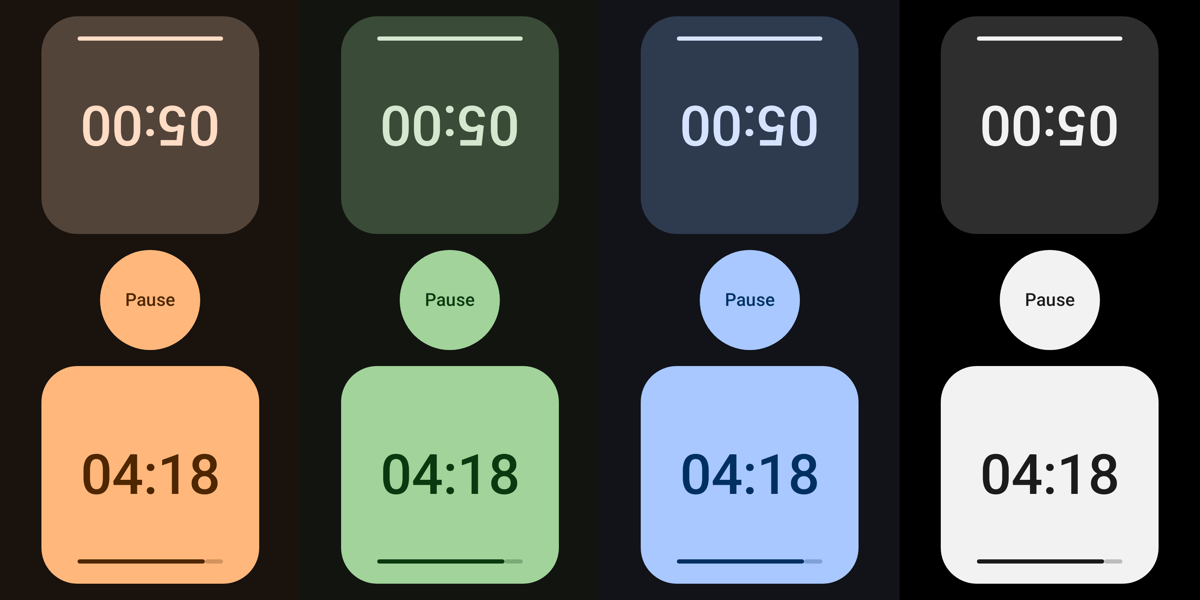
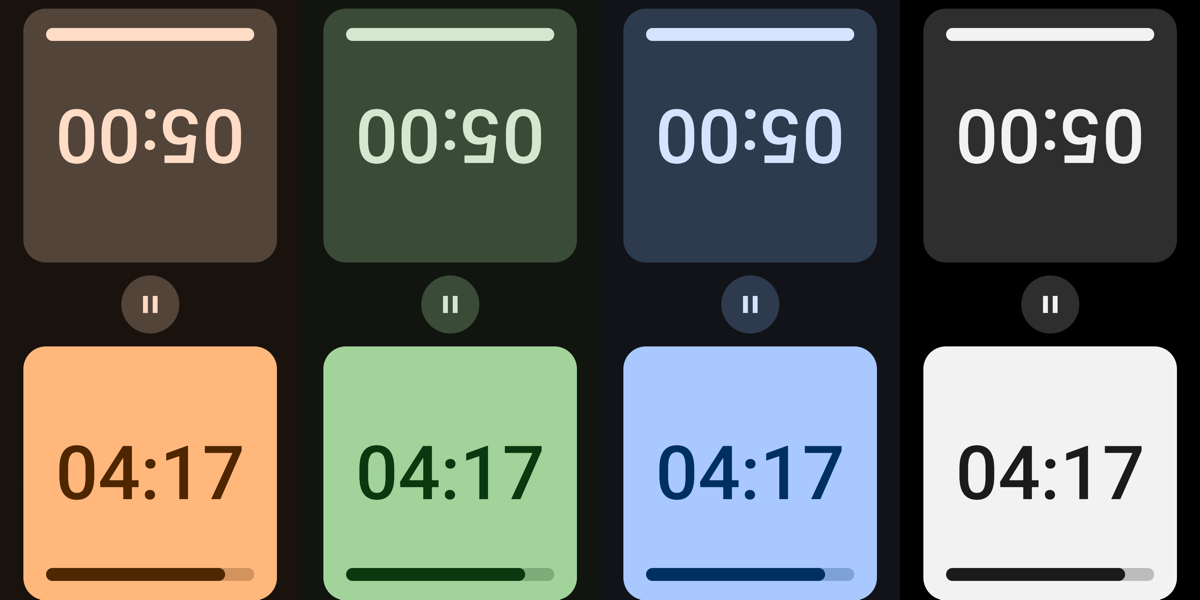
Refresh every screenshot for the symbols, tonal button and thick bars
The clock screenshots now show the settings button beside the move
counter, as it stays during play, and the palette strips show the
panels' bar as thick as the rings.

diff --git a/README.md b/README.md
@@ -3,8 +3,8 @@
 A two-player chess clock for Android and iPhone. Touch your half of the screen to end your turn and start your opponent's clock.
 
 <p>
-  <img src="docs/screenshots/rings.png" width="216" alt="Clock screen mid-game with ring faces, the top time turned toward the player opposite and 12 moves played">
-  <img src="docs/screenshots/panels-dark.png" width="216" alt="Clock screen with full-color panel faces in the dark theme">
+  <img src="docs/screenshots/rings.png" width="216" alt="Clock screen mid-game with ring faces, the top time turned toward the player opposite, the move counter and the settings button in the corners">
+  <img src="docs/screenshots/panels-dark.png" width="216" alt="Clock screen mid-game with full-color panel faces in the dark theme, each with a bar as thick as the rings">
   <img src="docs/screenshots/settings.png" width="216" alt="Settings with time-control presets, the time slider, different times per player and a second period after 40 moves">
 </p>
 
@@ -12,9 +12,9 @@ A two-player chess clock for Android and iPhone. Touch your half of the screen t
 
 The idea is a minimal, clean clock that stays out of the way of the game:
 
-- **Two faces and one button.** Besides the two times and Start or Pause, the screen has only the move count and the settings button, small in the corners.
+- **Two faces and one button.** Besides the two times and the play, pause and reset button, the screen has only the move count and the settings button, small in the corners.
 - **Color carries the state.** Whose move it is, low time and the result show as color, not as extra labels or icons.
-- **One design language.** Rings and panels share the same square, digits and spacing, and differ only in shape.
+- **One design language.** Rings and panels share the same square, digits, spacing and stroke of remaining time, and differ only in shape.
 - **Quiet feedback.** A click confirms a press and a pulse warns of low time, so players can keep their eyes on the board.
 - **Every addition earns its place.** A feature or animation goes in only if it is clear, small and useful at the board.
 
